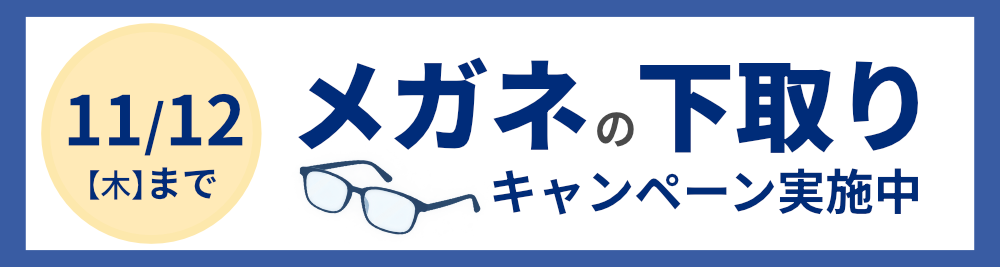
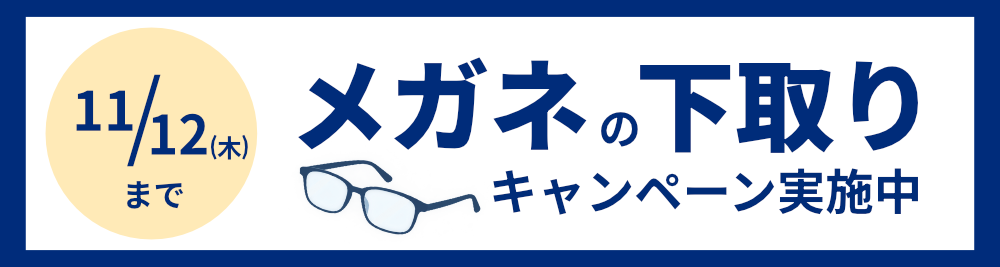
日付表記を統一: 横長バナー11/12(木)まで・今だけ特典10/13(火)〜11/12(木)

Changed region(s): [[0.0, 0.0, 1.0, 1.0], [0.589, 0.4195, 0.651, 0.5393], [0.186, 0.1199, 0.217, 0.1798]]

diff --git a/index.html b/index.html
@@ -983,7 +983,7 @@
     </section>
 
     <section class="tokuten-section" id="sec-tokuten">
-      <img loading="lazy" decoding="async" class="tokuten-section-img reveal" src="img/tokuten-section.webp" width="1206" height="3000" alt="今だけ特典 メガネの下取りキャンペーン 下取り1本につき1,100円OFF こんなメガネも下取ります(ご自宅に眠っているメガネ・古いメガネ・壊れているメガネ・他店で購入したメガネ) さらにLINEお友だち登録で1,100円OFF 期間:2026年11/12(木)まで 詳細:メガネ一式ご購入につき1本下取りいたします。">
+      <img loading="lazy" decoding="async" class="tokuten-section-img reveal" src="img/tokuten-section.webp" width="1206" height="3000" alt="今だけ特典 メガネの下取りキャンペーン 下取り1本につき1,100円OFF こんなメガネも下取ります(ご自宅に眠っているメガネ・古いメガネ・壊れているメガネ・他店で購入したメガネ) さらにLINEお友だち登録で1,100円OFF 期間:10/13(火)〜11/12(木) 詳細:メガネ一式ご購入につき1本下取りいたします。">
     </section>
 
     <section class="trade-section" id="sec-trade">

diff --git a/wp-deploy/page-lp-shitadori2026.php b/wp-deploy/page-lp-shitadori2026.php
@@ -868,7 +868,7 @@ $lp_assets = get_stylesheet_directory_uri() . '/lp/assets/shitadori2026/img';
     </div>
 
     <div class="side-promo">
-      <a href="#sec-tokuten" data-track="side_banner" data-cta-location="side_banner"><img src="<?php echo $lp_assets; ?>/promo-badge.webp?v=55b5f7a0" width="1000" height="267" alt="メガネの下取りキャンペーン実施中 11/12(木)まで(今だけ特典へ移動)"></a>
+      <a href="#sec-tokuten" data-track="side_banner" data-cta-location="side_banner"><img src="<?php echo $lp_assets; ?>/promo-badge.webp?v=8642c4ca" width="1000" height="267" alt="メガネの下取りキャンペーン実施中 11/12(木)まで(今だけ特典へ移動)"></a>
     </div>
   </div>
 
@@ -901,7 +901,7 @@ $lp_assets = get_stylesheet_directory_uri() . '/lp/assets/shitadori2026/img';
         <img fetchpriority="high" src="<?php echo $lp_assets; ?>/fv-composite.webp?v=af92a016" width="1675" height="2834" alt="メガネの不調に悩む男女のイラスト">
       </div>
 
-      <a href="#sec-tokuten" class="fv-promo" data-track="fv_banner" data-cta-location="fv_banner"><img src="<?php echo $lp_assets; ?>/promo-badge.webp?v=55b5f7a0" width="1000" height="267" alt="メガネの下取りキャンペーン実施中 11/12(木)まで(今だけ特典へ移動)"></a>
+      <a href="#sec-tokuten" class="fv-promo" data-track="fv_banner" data-cta-location="fv_banner"><img src="<?php echo $lp_assets; ?>/promo-badge.webp?v=8642c4ca" width="1000" height="267" alt="メガネの下取りキャンペーン実施中 11/12(木)まで(今だけ特典へ移動)"></a>
       <a href="#sec-store" class="fv-cta-placeholder" data-track="fv" data-cta-location="fv">無料相談はこちら<span class="cta-arrow" aria-hidden="true"></span></a>
     </section>
 
@@ -932,7 +932,7 @@ $lp_assets = get_stylesheet_directory_uri() . '/lp/assets/shitadori2026/img';
     </section>
 
     <section class="tokuten-section" id="sec-tokuten">
-      <img loading="lazy" decoding="async" class="tokuten-section-img reveal" src="<?php echo $lp_assets; ?>/tokuten-section.webp?v=4105e4db" width="1206" height="3000" alt="今だけ特典 メガネの下取りキャンペーン 下取り1本につき1,100円OFF こんなメガネも下取ります(ご自宅に眠っているメガネ・古いメガネ・壊れているメガネ・他店で購入したメガネ) さらにLINEお友だち登録で1,100円OFF 期間:2026年11/12(木)まで 詳細:メガネ一式ご購入につき1本下取りいたします。">
+      <img loading="lazy" decoding="async" class="tokuten-section-img reveal" src="<?php echo $lp_assets; ?>/tokuten-section.webp?v=b8c5b95e" width="1206" height="3000" alt="今だけ特典 メガネの下取りキャンペーン 下取り1本につき1,100円OFF こんなメガネも下取ります(ご自宅に眠っているメガネ・古いメガネ・壊れているメガネ・他店で購入したメガネ) さらにLINEお友だち登録で1,100円OFF 期間:10/13(火)〜11/12(木) 詳細:メガネ一式ご購入につき1本下取りいたします。">
     </section>
 
     <section class="trade-section" id="sec-trade">
